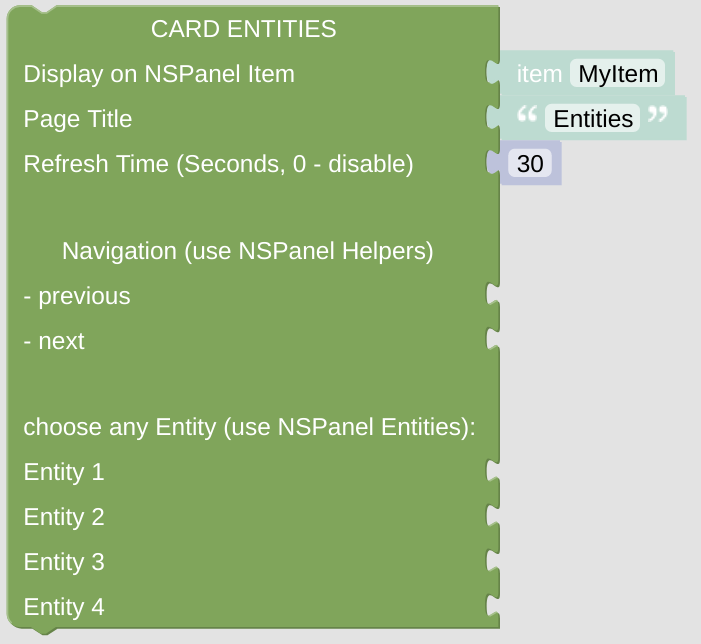
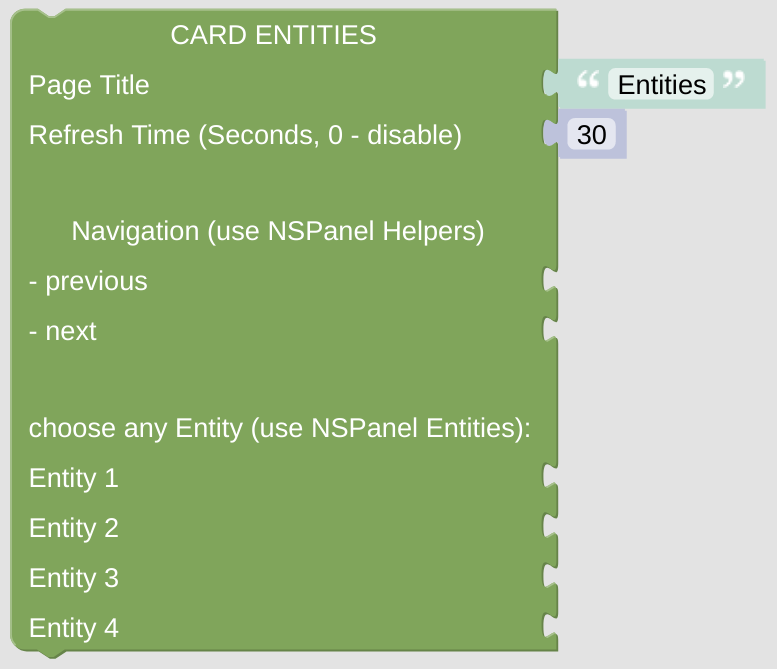
updated documentation
updated as preparation of 0.4 release

Changed region(s): [[0.0, 0.0, 0.9886, 0.9938], [0.0599, 0.3106, 0.6291, 0.559]]

diff --git a/README.md b/README.md
@@ -68,13 +68,15 @@ Now add some *Channel* and enter the receiving and sending MQTT topics for you N
 
 Before starting the configuration of these libraries you need to get a little bit familiar to the overall concept of this add-on. In the image you can see the display itself (hardware), the *MQTT-Broker* and the *Lovelace UI Item* as you configured them already. Now some *Rule* has to be added, which triggers the [*Callback*](docs/blockLibrary_nspanel_callback_callback.md) on any change of the Item state (any received relevant MQTT message or any direct change).
 
-This *Callback* will forward your message to the last or any new *Card* you requested by parsing this message. These *Cards* are just *Scripts* you created, which can have some forward and backwards navigation items on top. These items will contain references to other *Scripts* for navigation between you *Cards*. This way you can configure any navigation you like between all of your *Cards* .<br clear="right"/>
+This *Callback* will forward your message to the last or any new *Card* you requested by parsing this message. These *Cards* are just *Scripts* you created, which can have some forward and backwards navigation items on top. These items will contain references to other *Scripts* for navigation between your *Cards*. This way you can configure any navigation you like between all of your *Cards*.
+
+The *CallBack* will also forward the configured *NSPanel Item* to your *Card*, to the *Script* which gets called (new since version 0.4). This way you can use the same script (the same *Card* configuration) for multiple hardware displays. They only require separate callbacks to work.<br clear="right"/>
 
 [<img src="docs/img/openhab_scripts_.png" align="right" width="300">](docs/img/openhab_scripts_.png)
 
 One **important issue** with this concept is, that you need to reference your *Scripts* (and *Rules*) by there (internal) name, by there id or uid, quite often. By default, openHAB will give any Rule or Script you create some random (internal) name, like for instance '03f74d4dc'. That's hard to remember.
 
-But you can change this internal name, this id, just once while creating the *Script* or *Rule* as long as it is unique for your openHAB installation. No further change is possible, therefore you have to know what you are creating before you do this. Name you *Rules* like 'WeatherUpdate', name your *Scripts* like 'nspanel1_cardPower' and everything will work much smoother. And, just to e clear, I'm just talking about the internal name, the id or uid of some *Rule* or *Script*. References to the *Label* cannot be used (as of now).<br clear="right"/>
+But you can change this internal name, this id, just once while creating the *Script* or *Rule* as long as it is unique for your openHAB installation. No further change is possible, therefore you have to know what you are creating before you do this. Name you *Rules* like 'WeatherUpdate', name your *Scripts* like 'nspanel1_cardPower' and everything will work much smoother. And, just to be clear, I'm just talking about the internal name, the id or uid of some *Rule* or *Script*. References to the *Label* cannot be used (as of now).<br clear="right"/>
 
 ### Configure the Callback
 
@@ -84,7 +86,7 @@ Create some rule, which triggers on any update of your *NSPanel Item*. Let it ex
 
 [<img src="docs/img/openhab_rules_callback_script.png" align="right" width="300">](docs/img/openhab_rules_callback_script.png)
 
-The *Callback* needs to send messages to the panel, therefore it needs some link to the *NSPanel Item*. You might like to add some *Script* or *Rule* which will [update the Icons on your screensaver](docs/openhab_rules_weatherupdate.md), and you might add some *Script* which will [configure your first *Card*](docs/openhab_scripts_nspanel1_cardQR.md). Add both *Scripts* and *Rules* by referencing there internal ids - in the example screenshot you can also see how important it might be, to use meaningful names for these ids. You can reference them even before they are created, at least these references to the scripts can be changed whenever you like.<br clear="right"/>
+The *Callback* needs to send messages to the panel, therefore it needs some link to the *NSPanel Item*. You might like to add some *Script* or *Rule* which will [update the Icons on your screensaver](docs/openhab_rules_ssaverupdate.md), and you might add some *Script* which will [configure your first *Card*](docs/openhab_scripts_nspanel1_cardQR.md). Add both *Scripts* and *Rules* by referencing there internal ids - in the example screenshot you can also see how important it might be, to use meaningful names for these ids. You can reference them even before they are created, at least these references to the scripts can be changed whenever you like.<br clear="right"/>
 
 ### Configure the Time and Date
 

diff --git a/docs/blockLibrary_nspanel_cards_cardGrid.md b/docs/blockLibrary_nspanel_cards_cardGrid.md
@@ -4,9 +4,11 @@
 
 The cardGrid can be used to display different entities and there status. Dependent on the chosen entities and your configuration a click on any of the buttons can result on opening of popups for fine-grain configuration or any action you like.
 
+You can also use the cardGrid for navigation, for instance as some landing page which is always shown when you leave the screensaver. Just add an [entity button](blockLibrary_nspanel_entities_button.md), sending a [loadPage request](blockLibrary_nspanel_callback_callback.md#loadpage) to the [NSPanel Item retrieved from context](blockLibrary_nspanel_helpers_getContextItem.md).
+
 [Example Configuration](openhab_scripts_nspanel1_cardGrid.md)
 
-<br clear="right"/>
+**Important:** This *Card* will do nothing if called directly without any context. At least it requires some information about the *NSPanel Item* to work with, which is usually supplied from the *CallBack* calling the script with this *Card*. To [enable direct testing in your Blockly editor](blockLibrary_nspanel_helpers_setNSPanelIfNotContext.md) or to [force the *NSPanel Item*](blockLibrary_nspanel_helpers_startScriptWithContext.md) you can use the related helpers. To get to know [which *NSPanel Item* you are working on](blockLibrary_nspanel_helpers_getContextItem.md), use some helper as well.<br clear="right"/>
 
 ## Configuration
 
@@ -14,11 +16,9 @@ The cardGrid can be used to display different entities and there status. Depende
 
 ### Standard Top Configuration
 
-- The *NSPanel Item* which is used to control the panel with MQTT.
-
 - The Page Title which is used for this page.
 
-- The Refresh Time, after that time the page contents got refreshed. This might be useful when displaying some changing entities on the page, like lights or switches, to keep them in sync with their openHAB status (you can also use some rule to trigger the update via the [Callback remote control options](blockLibrary_nspanel_callback_callback.md)).
+- The Refresh Time, after that time the page contents got refreshed. This might be useful when displaying some changing entities on the page, like lights or switches, to keep them in sync with their openHAB status (you can also use some rule to trigger the update via the [Callback remote control options](blockLibrary_nspanel_callback_callback.md)). This refresh timeout won't work (and will be ignored) when [directly started with context](blockLibrary_nspanel_helpers_startScriptWithContext.md), it needs to be called from *CallBack* for this to work.
 
 - Navigation items (previous, next) to easily enable some link to other cards. Best choose the [Navigation String Helper](blockLibrary_nspanel_helpers_navString.md) from the NSPanel Helpers Menu. These items will be displayed in the top area left or right.
 

diff --git a/docs/blockLibrary_nspanel_cards_cardEntities.md b/docs/blockLibrary_nspanel_cards_cardEntities.md
@@ -4,7 +4,9 @@
 
 The cardEntities page gives you the overview of the status of up to 4 different entities. You can modify them directly on this page or access some sub-pages, popups, to do more detailed configurations.
 
-[Example Configuration](openhab_scripts_nspanel1_cardEntities.md)<br clear="right"/>
+[Example Configuration](openhab_scripts_nspanel1_cardEntities.md)
+
+**Important:** This *Card* will do nothing if called directly without any context. At least it requires some information about the *NSPanel Item* to work with, which is usually supplied from the *CallBack* calling the script with this *Card*. To [enable direct testing in your Blockly editor](blockLibrary_nspanel_helpers_setNSPanelIfNotContext.md) or to [force the *NSPanel Item*](blockLibrary_nspanel_helpers_startScriptWithContext.md) you can use the related helpers. To get to know [which *NSPanel Item* you are working on](blockLibrary_nspanel_helpers_getContextItem.md), use some helper as well.<br clear="right"/>
 
 ## Configuration
 
@@ -12,9 +14,8 @@ The cardEntities page gives you the overview of the status of up to 4 different 
 
 ### Standard Top Configuration
 
-- The *NSPanel Item* which is used to control the panel with MQTT.
 - The Page Title which is used for this page.
-- The Refresh Time, after that time the page contents got refreshed. This might be useful when displaying some changing entities on the page, like lights or switches, to keep them in sync with their openHAB status (you can also use some rule to trigger the update via the [Callback remote control options](blockLibrary_nspanel_callback_callback.md)).
+- The Refresh Time, after that time the page contents got refreshed. This might be useful when displaying some changing entities on the page, like lights or switches, to keep them in sync with their openHAB status (you can also use some rule to trigger the update via the [Callback remote control options](blockLibrary_nspanel_callback_callback.md)). This refresh timeout won't work (and will be ignored) when [directly started with context](blockLibrary_nspanel_helpers_startScriptWithContext.md), it needs to be called from *CallBack* for this to work.
 - Navigation items (previous, next) to easily enable some link to other cards. Best choose the [Navigation String Helper](blockLibrary_nspanel_helpers_navString.md) from the NSPanel Helpers Menu. These items will be displayed in the top area left or right.
 
 ### Special Configuration for cardEntities

diff --git a/docs/blockLibrary_nspanel_cards_cardAlarm.md b/docs/blockLibrary_nspanel_cards_cardAlarm.md
@@ -4,7 +4,9 @@
 
 The cardAlarm gives you some input options to enter some protection code. The PIN is sent back to your openHAB software. Every action based on the right or wrong code will be handled in openHAB as well. 
 
-[Example Configuration](openhab_scripts_nspanel1_cardAlarm.md)<br clear="right"/>
+[Example Configuration](openhab_scripts_nspanel1_cardAlarm.md)
+
+**Important:** This *Card* will do nothing if called directly without any context. At least it requires some information about the *NSPanel Item* to work with, which is usually supplied from the *CallBack* calling the script with this *Card*. To [enable direct testing in your Blockly editor](blockLibrary_nspanel_helpers_setNSPanelIfNotContext.md) or to [force the *NSPanel Item*](blockLibrary_nspanel_helpers_startScriptWithContext.md) you can use the related helpers. To get to know [which *NSPanel Item* you are working on](blockLibrary_nspanel_helpers_getContextItem.md), use some helper as well.<br clear="right"/>
 
 ## Configuration
 
@@ -12,9 +14,8 @@ The cardAlarm gives you some input options to enter some protection code. The PI
 
 ### Standard Top Configuration
 
-- The *NSPanel Item* which is used to control the panel with MQTT.
 - The Page Title which is used for this page.
-- The Refresh Time, after that time the page contents got refreshed. This might be useful when displaying some changing entities on the page, like lights or switches, to keep them in sync with their openHAB status (you can also use some rule to trigger the update via the [Callback remote control options](blockLibrary_nspanel_callback_callback.md)).
+- The Refresh Time, after that time the page contents got refreshed. This might be useful when displaying some changing entities on the page, like lights or switches, to keep them in sync with their openHAB status (you can also use some rule to trigger the update via the [*Callback* remote control options](blockLibrary_nspanel_callback_callback.md)). This refresh timeout won't work (and will be ignored) when [directly started with context](blockLibrary_nspanel_helpers_startScriptWithContext.md), it needs to be called from *CallBack* for this to work.
 - Navigation items (previous, next) to easily enable some link to other cards. Best choose the [Navigation String Helper](blockLibrary_nspanel_helpers_navString.md) from the NSPanel Helpers Menu. These items will be displayed in the top area left or right.
 
 ### Special Configuration for cardAlarm

diff --git a/docs/blockLibrary_nspanel_cards_cardMedia.md b/docs/blockLibrary_nspanel_cards_cardMedia.md
@@ -4,7 +4,9 @@
 
 The cardMedia page can e used to control some media player. Indicate what music is playing and change the sources, all possible with this card.
 
-[Example Configuration](openhab_scripts_nspanel1_cardMedia.md)<br clear="right"/>
+[Example Configuration](openhab_scripts_nspanel1_cardMedia.md)
+
+**Important:** This *Card* will do nothing if called directly without any context. At least it requires some information about the *NSPanel Item* to work with, which is usually supplied from the *CallBack* calling the script with this *Card*. To [enable direct testing in your Blockly editor](blockLibrary_nspanel_helpers_setNSPanelIfNotContext.md) or to [force the *NSPanel Item*](blockLibrary_nspanel_helpers_startScriptWithContext.md) you can use the related helpers. To get to know [which *NSPanel Item* you are working on](blockLibrary_nspanel_helpers_getContextItem.md), use some helper as well.<br clear="right"/>
 
 ## Configuration
 
@@ -12,9 +14,8 @@ The cardMedia page can e used to control some media player. Indicate what music 
 
 ### Standard Top Configuration
 
-- The *NSPanel Item* which is used to control the panel with MQTT.
 - The Page Title which is used for this page.
-- The Refresh Time, after that time the page contents got refreshed. This might be useful when displaying some changing entities on the page, like lights or switches, to keep them in sync with their openHAB status (you can also use some rule to trigger the update via the [Callback remote control options](blockLibrary_nspanel_callback_callback.md)).
+- The Refresh Time, after that time the page contents got refreshed. This might be useful when displaying some changing entities on the page, like lights or switches, to keep them in sync with their openHAB status (you can also use some rule to trigger the update via the [Callback remote control options](blockLibrary_nspanel_callback_callback.md)). This refresh timeout won't work (and will be ignored) when [directly started with context](blockLibrary_nspanel_helpers_startScriptWithContext.md), it needs to be called from *CallBack* for this to work.
 - Navigation items (previous, next) to easily enable some link to other cards. Best choose the [Navigation String Helper](blockLibrary_nspanel_helpers_navString.md) from the NSPanel Helpers Menu. These items will be displayed in the top area left or right.
 
 ### Special Configuration for cardMedia

diff --git a/docs/blockLibrary_nspanel_cards_cardPower.md b/docs/blockLibrary_nspanel_cards_cardPower.md
@@ -4,7 +4,9 @@
 
 The power usage overview can be used to display your home power network. It is not made to trigger any actions. 
 
-[Example Configuration](openhab_scripts_nspanel1_cardPower.md)<br clear="right"/>
+[Example Configuration](openhab_scripts_nspanel1_cardPower.md)
+
+**Important:** This *Card* will do nothing if called directly without any context. At least it requires some information about the *NSPanel Item* to work with, which is usually supplied from the *CallBack* calling the script with this *Card*. To [enable direct testing in your Blockly editor](blockLibrary_nspanel_helpers_setNSPanelIfNotContext.md) or to [force the *NSPanel Item*](blockLibrary_nspanel_helpers_startScriptWithContext.md) you can use the related helpers. To get to know [which *NSPanel Item* you are working on](blockLibrary_nspanel_helpers_getContextItem.md), use some helper as well.<br clear="right"/>
 
 ## Configuration
 
@@ -12,9 +14,8 @@ The power usage overview can be used to display your home power network. It is n
 
 ### Standard Top Configuration
 
-- The *NSPanel Item* which is used to control the panel with MQTT.
 - The Page Title which is used for this page.
-- The Refresh Time, after that time the page contents got refreshed. This might be useful when displaying some changing entities on the page, like lights or switches, to keep them in sync with their openHAB status (you can also use some rule to trigger the update via the [Callback remote control options](blockLibrary_nspanel_callback_callback.md)).
+- The Refresh Time, after that time the page contents got refreshed. This might be useful when displaying some changing entities on the page, like lights or switches, to keep them in sync with their openHAB status (you can also use some rule to trigger the update via the [Callback remote control options](blockLibrary_nspanel_callback_callback.md)). This refresh timeout won't work (and will be ignored) when [directly started with context](blockLibrary_nspanel_helpers_startScriptWithContext.md), it needs to be called from *CallBack* for this to work.
 - Navigation items (previous, next) to easily enable some link to other cards. Best choose the [Navigation String Helper](blockLibrary_nspanel_helpers_navString.md) from the NSPanel Helpers Menu. These items will be displayed in the top area left or right.
 
 ### Special Configuration for cardPower

diff --git a/docs/blockLibrary_nspanel_cards_cardChart.md b/docs/blockLibrary_nspanel_cards_cardChart.md
@@ -6,6 +6,8 @@ The cardChart gives you the chance to display some values graphically as a bar o
 
 [Example Configuration](openhab_scripts_nspanel1_cardChart.md)
 
+**Important:** This *Card* will do nothing if called directly without any context. At least it requires some information about the *NSPanel Item* to work with, which is usually supplied from the *CallBack* calling the script with this *Card*. To [enable direct testing in your Blockly editor](blockLibrary_nspanel_helpers_setNSPanelIfNotContext.md) or to [force the *NSPanel Item*](blockLibrary_nspanel_helpers_startScriptWithContext.md) you can use the related helpers. To get to know [which *NSPanel Item* you are working on](blockLibrary_nspanel_helpers_getContextItem.md), use some helper as well.<br clear="right"/>
+
 ## Configuration
 
 On top of the module you have to decide if you like to display your values as a bar or a line-chart.
@@ -14,9 +16,8 @@ On top of the module you have to decide if you like to display your values as a 
 
 ### Standard Top Configuration
 
-- The *NSPanel Item* which is used to control the panel with MQTT.
 - The Page Title which is used for this page.
-- The Refresh Time, after that time the page contents got refreshed. This might be useful when displaying some changing entities on the page, like lights or switches, to keep them in sync with their openHAB status (you can also use some rule to trigger the update via the [Callback remote control options](blockLibrary_nspanel_callback_callback.md)).
+- The Refresh Time, after that time the page contents got refreshed. This might be useful when displaying some changing entities on the page, like lights or switches, to keep them in sync with their openHAB status (you can also use some rule to trigger the update via the [Callback remote control options](blockLibrary_nspanel_callback_callback.md)). This refresh timeout won't work (and will be ignored) when [directly started with context](blockLibrary_nspanel_helpers_startScriptWithContext.md), it needs to be called from *CallBack* for this to work.
 - Navigation items (previous, next) to easily enable some link to other cards. Best choose the [Navigation String Helper](blockLibrary_nspanel_helpers_navString.md) from the NSPanel Helpers Menu. These items will be displayed in the top area left or right.
 
 ### Special Configuration for cardChart

diff --git a/docs/blockLibrary_nspanel_cards_cardThermo.md b/docs/blockLibrary_nspanel_cards_cardThermo.md
@@ -4,7 +4,9 @@
 
 The cardThermo is made to control one or two temperature settings for your home evironment.
 
-[Example Configuration](openhab_scripts_nspanel1_cardThermo.md)<br clear="right"/>
+[Example Configuration](openhab_scripts_nspanel1_cardThermo.md)
+
+**Important:** This *Card* will do nothing if called directly without any context. At least it requires some information about the *NSPanel Item* to work with, which is usually supplied from the *CallBack* calling the script with this *Card*. To [enable direct testing in your Blockly editor](blockLibrary_nspanel_helpers_setNSPanelIfNotContext.md) or to [force the *NSPanel Item*](blockLibrary_nspanel_helpers_startScriptWithContext.md) you can use the related helpers. To get to know [which *NSPanel Item* you are working on](blockLibrary_nspanel_helpers_getContextItem.md), use some helper as well.<br clear="right"/>
 
 ## Configuration
 
@@ -12,9 +14,8 @@ The cardThermo is made to control one or two temperature settings for your home 
 
 ### Standard Top Configuration
 
-- The *NSPanel Item* which is used to control the panel with MQTT.
 - The Page Title which is used for this page.
-- The Refresh Time, after that time the page contents got refreshed. This might be useful when displaying some changing entities on the page, like lights or switches, to keep them in sync with their openHAB status (you can also use some rule to trigger the update via the [Callback remote control options](blockLibrary_nspanel_callback_callback.md)).
+- The Refresh Time, after that time the page contents got refreshed. This might be useful when displaying some changing entities on the page, like lights or switches, to keep them in sync with their openHAB status (you can also use some rule to trigger the update via the [Callback remote control options](blockLibrary_nspanel_callback_callback.md)). This refresh timeout won't work (and will be ignored) when [directly started with context](blockLibrary_nspanel_helpers_startScriptWithContext.md), it needs to be called from *CallBack* for this to work.
 - Navigation items (previous, next) to easily enable some link to other cards. Best choose the [Navigation String Helper](blockLibrary_nspanel_helpers_navString.md) from the NSPanel Helpers Menu. These items will be displayed in the top area left or right.
 
 ### Special Configuration for cardThermo

diff --git a/docs/blockLibrary_nspanel_cards_cardQR.md b/docs/blockLibrary_nspanel_cards_cardQR.md
@@ -4,7 +4,9 @@
 
 The cardQR will help your guests to connect to your WIFI. It will display some QR code
 
-[Example Configuration](openhab_scripts_nspanel1_cardQR.md)<br clear="right"/>
+[Example Configuration](openhab_scripts_nspanel1_cardQR.md)
+
+**Important:** This *Card* will do nothing if called directly without any context. At least it requires some information about the *NSPanel Item* to work with, which is usually supplied from the *CallBack* calling the script with this *Card*. To [enable direct testing in your Blockly editor](blockLibrary_nspanel_helpers_setNSPanelIfNotContext.md) or to [force the *NSPanel Item*](blockLibrary_nspanel_helpers_startScriptWithContext.md) you can use the related helpers. To get to know [which *NSPanel Item* you are working on](blockLibrary_nspanel_helpers_getContextItem.md), use some helper as well.<br clear="right"/>
 
 ## Configuration
 
@@ -12,9 +14,8 @@ The cardQR will help your guests to connect to your WIFI. It will display some Q
 
 ### Standard Top Configuration
 
-- The *NSPanel Item* which is used to control the panel with MQTT.
 - The Page Title which is used for this page.
-- The Refresh Time, after that time the page contents got refreshed. This might be useful when displaying some changing entities on the page, like lights or switches, to keep them in sync with their openHAB status (you can also use some rule to trigger the update via the [Callback remote control options](blockLibrary_nspanel_callback_callback.md)).
+- The Refresh Time, after that time the page contents got refreshed. This might be useful when displaying some changing entities on the page, like lights or switches, to keep them in sync with their openHAB status (you can also use some rule to trigger the update via the [Callback remote control options](blockLibrary_nspanel_callback_callback.md)). This refresh timeout won't work (and will be ignored) when [directly started with context](blockLibrary_nspanel_helpers_startScriptWithContext.md), it needs to be called from *CallBack* for this to work.
 - Navigation items (previous, next) to easily enable some link to other cards. Best choose the [Navigation String Helper](blockLibrary_nspanel_helpers_navString.md) from the NSPanel Helpers Menu. These items will be displayed in the top area left or right.
 
 ### Special Configuration for cardQR

diff --git a/docs/openhab_rules_ssaverupdate.md b/docs/openhab_rules_ssaverupdate.md
@@ -1,0 +1,26 @@
+# Example Screensaver Update Rule
+
+This is some working example of the Weather / Icon Update for the [standard screensaver](https://docs.nspanel.pky.eu/img/screensaver.png).
+
+## Configuration
+
+[<img src="img/openhab_rules_ssaverupdate.png" align="right" width="300">](img/openhab_rules_ssaverupdate.png)
+
+- Add a rule which is triggered every time you like to update the icons. In my example case, it is triggered every time the weather information received from FMI is updated.<br clear="right"/>
+
+[<img src="img/openhab_rules_ssaverupdate_script.png" align="right" width="300">](img/openhab_rules_ssaverupdate_script.png)
+
+- In the core of the update script I am using you can see three calls of the update-script, one for all the hardware panels I am using. These scripts are just setting the Icons the way you like, have a look at the [Screensaver Update Description](blockLibrary_nspanel_screensaver_updateStandard.md) as well.
+- The frame in this example is only used to prevent too many calls of the update scripts, in my case they are limited to one per half minute.<br clear="right"/>
+
+[<img src="img/openhab_rules_ssaverupdate_script_2.png" align="right" width="300">](img/openhab_rules_ssaverupdate_script_2.png)
+
+- Beside you can see the script, which is called as 'nspanel_ssaver_update' on every trigger of this rule for every panel I own.
+- The Icon (Label Entity) updates are only taken over, if there is no notifiction shown. Therefore the notification is removed before the Icons are updated.
+- After the update of the screensaver items I like to display some values below as [Screensaver Statusicons](blockLibrary_nspanel_screensaver_screensaverStatusIcons.md). The delay is required, the panel does not like to get too much information without any pause and might ignore just some in-between-updates if they come in too fast.
+
+---
+
+[Openhab Blockly Nspanel - Library Documentation](README.md)
+
+---

diff --git a/docs/blockLibrary_nspanel_helpers_setNSPanelIfNotContext.md b/docs/blockLibrary_nspanel_helpers_setNSPanelIfNotContext.md
@@ -1,0 +1,24 @@
+# set NSPanel Item if Context not found
+
+The *Cards* you are going to create, the Pages you are going to display on the panel are configured in scripts without any information about the *NSPanel Items* they should run on. This information is provided by the calling *CallBack* rule, which is triggered by the panel you are working with. This way you can re-use the same *Card* for different Panels in your automation.
+
+The drawback of this concept is, that you can't easily test some card directly in your Blockly editor.
+
+This module gives you the chance to do a 'real-testing' just within your editor. It checks, if the context information is missing. If so, it will trigger a [loadPage](blockLibrary_nspanel_callback_callback.md#loadpage) update with the own script id and reload the page trough your *CallBack*. This also means, that it will only work if your *[CallBack* is configured](blockLibrary_nspanel_callback_callback.md#loadpage) the way it should. To test your *Card* without a working *CallBack*, you can also [force the *NSPanel Item* to work with](blockLibrary_nspanel_helpers_startScriptWithContext.md).
+
+You can leave this helper module also in the script while using this script in your multi panel setup - it will always check if the context is already set and never will get in your way. Check the [Card Grid Example](openhab_scripts_nspanel1_cardGrid.md) for the usual application.
+
+Be aware that the *Card* might be refreshed automatically with it's refresh timer if you configured it to do so.
+
+## Configuration
+
+[<img src="img/blockLibrary_nspanel_helpers_setNSPanelIfNotContext.png" align="right" width="300">](img/blockLibrary_nspanel_helpers_setNSPanelIfNotContext.png)
+
+- The *NSPanel Item* which is used to control the panel with MQTT.
+- You should your *Cards* as a *Statement* below the module.<br clear="right"/>
+
+---
+
+[Openhab Blockly Nspanel - Library Documentation](README.md)
+
+---

diff --git a/docs/blockLibrary_nspanel_callback_callback.md b/docs/blockLibrary_nspanel_callback_callback.md
@@ -41,15 +41,19 @@ You can also modify the brightness settings of the display on the fly, maybe to 
 
 The *Callback* will configure the screensaver after receiving the display startup message. The following settings are relevant for the screensaver:
 
-- The Screensaver timeout in seconds - enter 0 here to disable the screensaver completely.
+- The Screensaver timeout in seconds - enter 0 here to disable the automatic display of the screensaver completely.
 - The Brightness for the Screensaver as numerical value between 0 and 100. 
 - You can decide, if you like to use a more [complex Screensaver](https://docs.nspanel.pky.eu/img/screensaver2.png), displaying more than 15 states, instead of the [usual one](https://docs.nspanel.pky.eu/img/screensaver.png), which gives you around 5 states on the display.
 - You can enter a script name (the script ID, not the Label!), which is called whenever the screensaver is activated. This can be used to renew all the icons and status informations on the screensaver.
 
 You might also like to display some initial card (page) after starting.
 
-- Add the ID of some script configuring your card.
-- Run any statement you like.<br clear="right"/>
+- Add the ID of some script configuring your *Card*. You might decide if this *Card* is shown every time you are leaving your screensaver (like a landing page for naviation) or if you like to reach the last *Card* shown instead.
+- Run any statement you like. This statement will only be run once during initial startup.
+
+## Context information
+
+All scripts (*Pages*, *Cards*) started via the *CallBack* will get not only the information about some last display action, but also always the *NSPanel Item* to work with as context information. This is done to enable the reuse of your scripts for multiple panels. Standard Cards require this information to run and will usually not work if the context is missing.<br clear="right"/>
 
 ---
 
